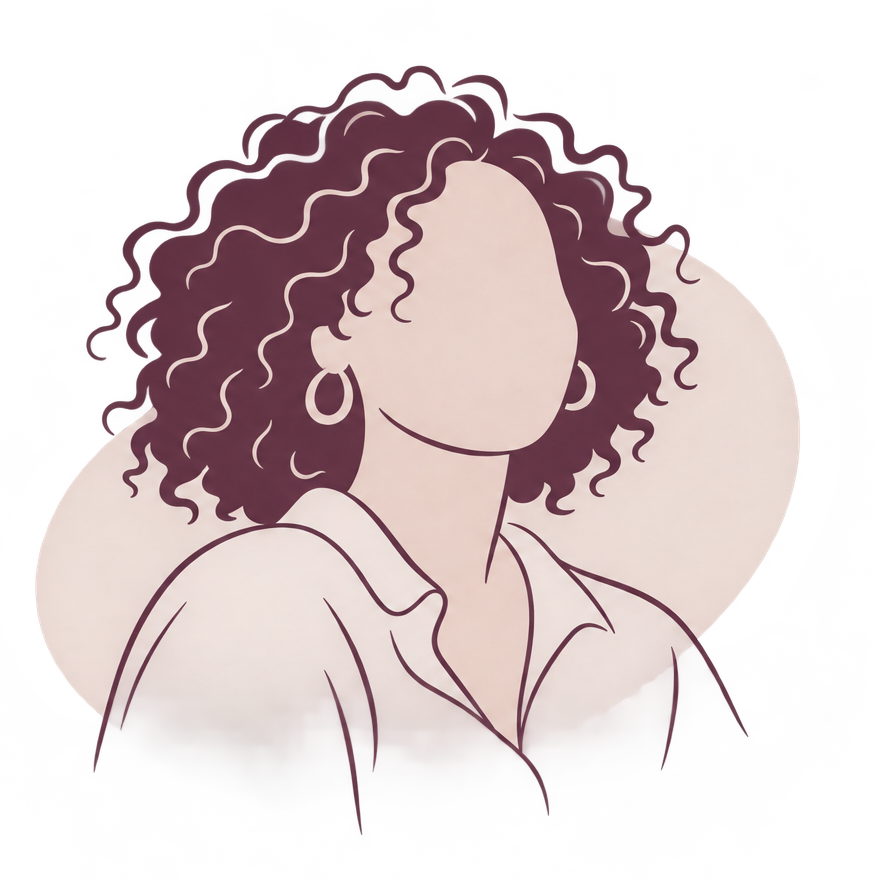
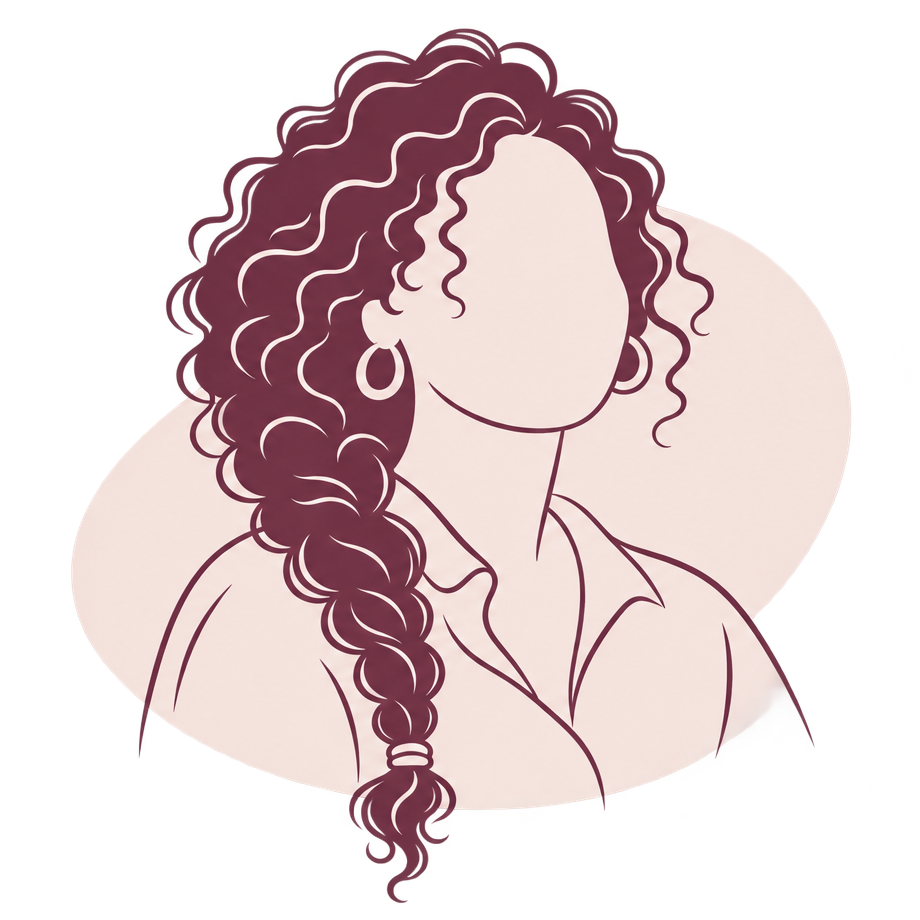
Use the maroon braid illustration for the testimonial and mark N.'s wording approved

Changed region(s): [[0.0307, 0.0307, 0.9511, 0.9818], [0.8284, 0.7977, 0.8591, 0.8284]]

diff --git a/03Develop/website/src/content/site.ts b/03Develop/website/src/content/site.ts
@@ -214,7 +214,7 @@ export const testimonials = {
   heading: 'What working together can feel like',
   items: [
     {
-      // TODO(Mila): confirm N. has approved this lightly edited wording before launch.
+      // Wording approved by N. (2 Nov 2026).
       paragraphs: [
         'We all have struggles and doubts about food, exercise, and how to balance them with everyday life. Mila gives you the knowledge and practical tips to make that balance easier, while encouraging you to take the first steps towards change.',
         'She’s not just a coach; she’s a friend who genuinely celebrates your happiness and progress as you learn to take better care of your body.',
